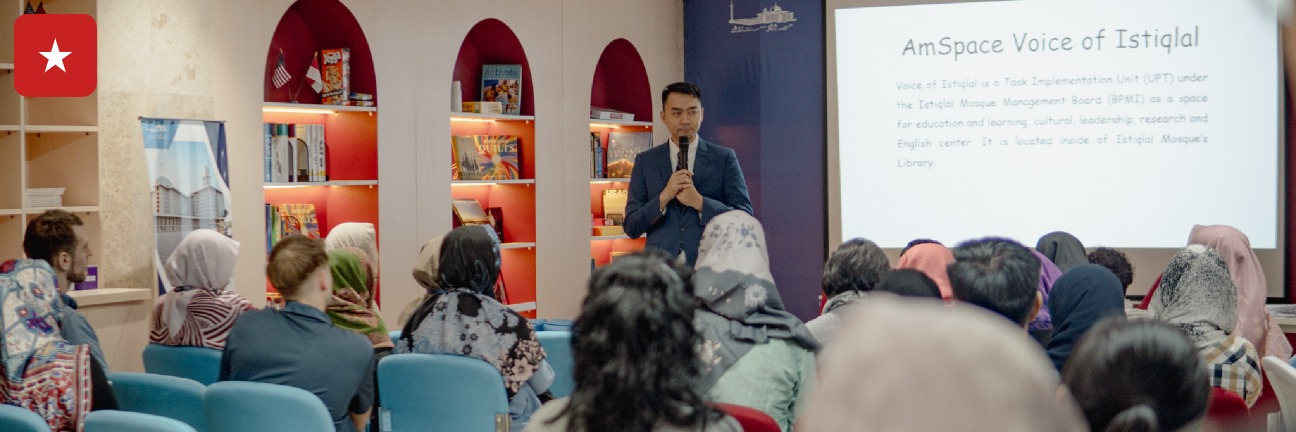
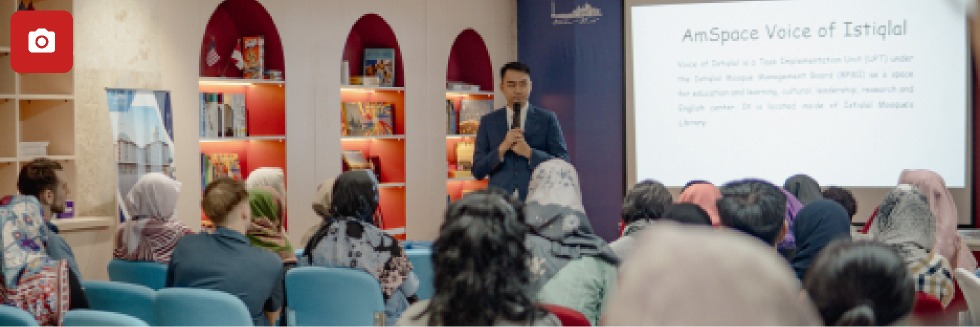
STYLE : components, deploy

diff --git a/src/components/OurProgramHeader.jsx b/src/components/OurProgramHeader.jsx
@@ -6,7 +6,8 @@ import {
   MdMenuBook,  
   MdPeople,  
   MdLightbulb,  
-  MdStarRate,  
+  MdStarRate, 
+  MdCameraAlt, 
 } from "react-icons/md";  
 
 import { SiMediamarkt } from "react-icons/si";
@@ -36,7 +37,7 @@ export const OurProgramHeader = () => {
     {  
       program: "Media, Art, And Creative Affairs",  
       desc: "Menciptakan anak-anak bangsa kreatif, inovatif, adaptif, dan berdaya saing global melalui inovasi media, seni, dan industri kreatif.",  
-      icon: <MdStarRate size={24} className="text-white" />,  
+      icon: <MdCameraAlt size={24} className="text-white" />,  
     },  
   ];  
   
